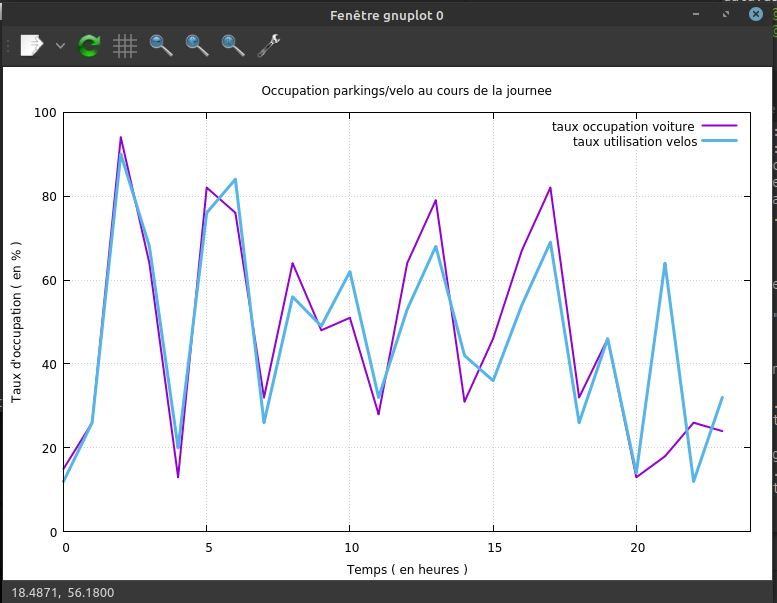
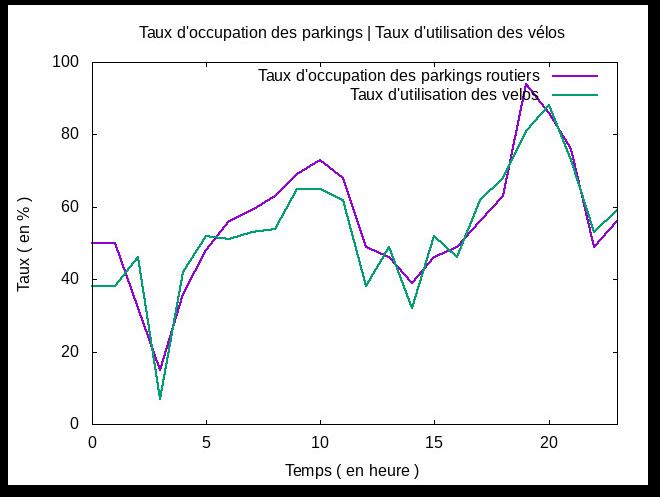
Commit

diff --git a/readme.md b/readme.md
@@ -2,6 +2,7 @@
 ## Introduction : 
 ## Notre projet consiste à récupérer en temps réel les données des **parkings routiers** de la ville de Montpellier ainsi que les utilisations des **stations de vélo** de cette même ville pour analyser l'influence entre les deux. 
 ## Pour ceci, nous avons écrit des scripts python qui récupère les données mesurées en quasi temps réel ( toutes les 5-10 minutes ) de l'activité des parkings routier ainsi que ceux pour les vélos, qui sont disponibles sur le site ***data.montpellier3m.fr***.
+## Finalement, un script bash s'occupera d'actualiser notre Github automatiquement avec les nouvelles données chaque heure, ce qui aura pour conséquence d'actualiser notre site Internet en affichant et sauvegardant les nouvelles valeurs ainsi que les anciennes.
 
 ----
 # Notre réalisation : 
@@ -15,7 +16,7 @@
 >* ## Il va faire un **résumé** pour **chaque parking** de ce qu'il a récupérer et va l'**écrire dans un nouveau fichier texte stocké dans le dossier 'scrap' avec comme nom la date et l'heure du scrapping.** *Cela nous sert à comprendre les données pour vérifier les éventuelles erreurs.*
 >* ## Finalement, il va **stocker** dans un nouveau fichier stocké dans le dossier 'data_graph' et qui nous servira réellement **pour l'évaluation de l'utilisation des différents parkings**
 >* ## Avec les données récoltés, un **graphique** (*produit avec GnuPlot*) se crée **en temps réel** et **s'actualise toutes les 24h** (*crée un autre graphique pour chaque jours*)
->* ## Et ce, pour à la fois les vélos ainsi que les parkings routier.
+>* ## Finalement, un script bash actualisera les données sur le Github principal et les valeurs ainsi que le graphique qui se trace au fur et à mesure, s'affiche sur notre site Internet.
 ## Il est important de noter que, pour créer les graphiques, nous avons choisi d'utiliser le **taux d'occupation des parkings routiers et le taux d'utilisation de vélos** **pour toute la ville**.
 ## Et enfin, **le programme se relance toutes les 24h en entier** et **récupère des données toutes les heures**, pour éviter les **problèmes d'actualisation** qu'on peut avoir avec le site d'OpenData.
 -----
@@ -31,14 +32,16 @@
 
 ---- 
 # Détails techniques 
-## Pour le graphique avec gnuplot, nous avons choisi les options suivantes : 
-    set yrange [0:100]  # Vu que nous avons seulement des données entre 0 et 100%
-    set xrange [0:23]  # Pour afficher les heures de minuit à 23 heures. 
-    set title "Occupation parkings/velo au cours de la journee"  
-    set xlabel "Temps ( en heures )"  
-    set ylabel "Taux d'occupation ( en % )"  
+## Pour le graphique avec gnuplot, nous avons choisi les options suivantes (Ces options sont incluses dans notre script bash et ainsi les programmes finaux se veulent polyvalent et executables sur n'importe quelle machine avec Linux) : 
+    set xrange [0:23] # Abscisse qui représente les heures de la journée
+    set yrange [0:100] # Ordonnée qui représente le taux de pourcentage (donc entre 0 et 100%)
+    set title"Taux d'occupation des parkings | Taux d'utilisation des vélos" # Pour le titre du graphique
+    set xlabel "Temps ( en heure )" # Titre abscisse
+    set ylabel "Taux ( en % )" # Titre ordonnée
+    set term jpeg # Pour sortir en image sous format .jpeg
+    set output "photo_graph/graph.jpeg"  # Où on stocke l'image qui en sort
 ## Et finalement, pour tracer le graphique :
-    plot "voiture.dat" title"taux occupation voiture" linewidth 2 linecolor 1 with lines,"velo.dat" title"taux utilisation velos" linewidth 3 linecolor 3 with lines
+    plot "$HOME/Data-Scrapping-Montpellier/data_graph/voiture_velo.dat" using 1:2 title"Taux d'occupation des parkings routiers" linewidth 2 with lines, "$HOME/Data-Scrapping-Montpellier/data_graph/voiture_velo.dat" using 1:3 title"Taux d'utilisation des velos" linewidth 2 with lines
 
 -----
 # Optimisations et améliorations :
@@ -48,5 +51,5 @@
 
 ----
 # Notes : 
-* ## Le programme n'est pas encore totalement fonctionnel (Il manque l'implémentation des données pour tracer de véritables graphiques)
+* ## Le programme n'est pas encore totalement fonctionnel (Il manque le git push automatique)
 * ## Il faudrait également beaucoup plus de temps pour pouvoir mesurer sur de longues périodes pour avoir des conclusions plus pertinentes et précises.
